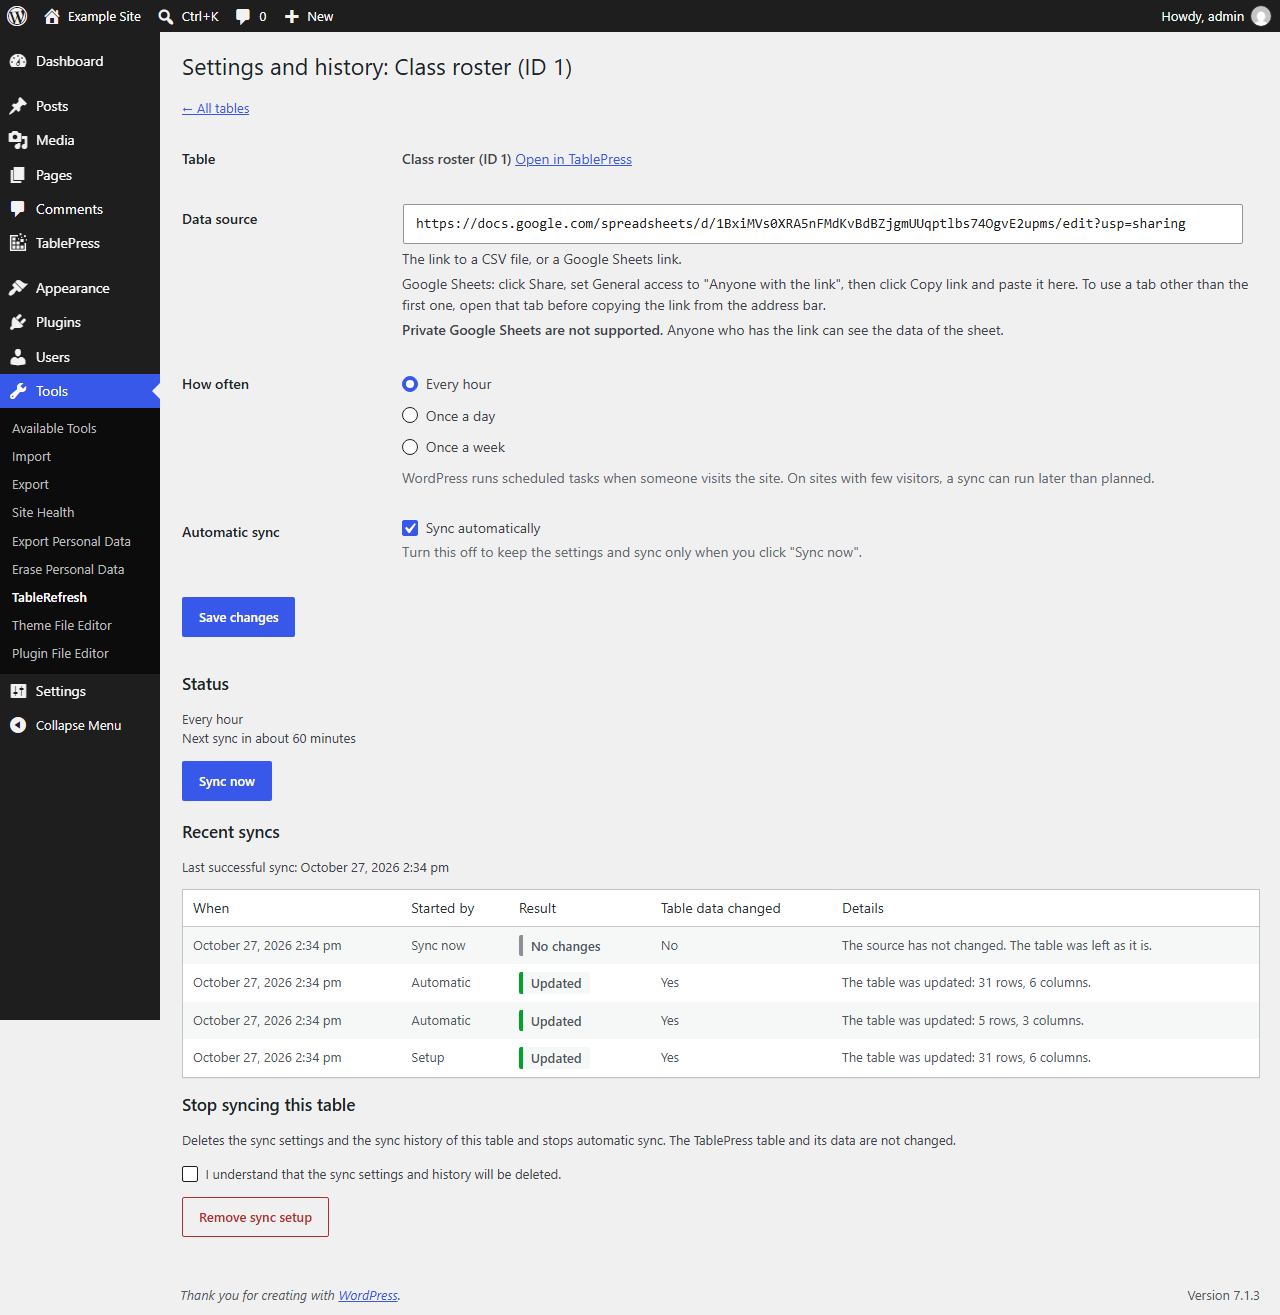
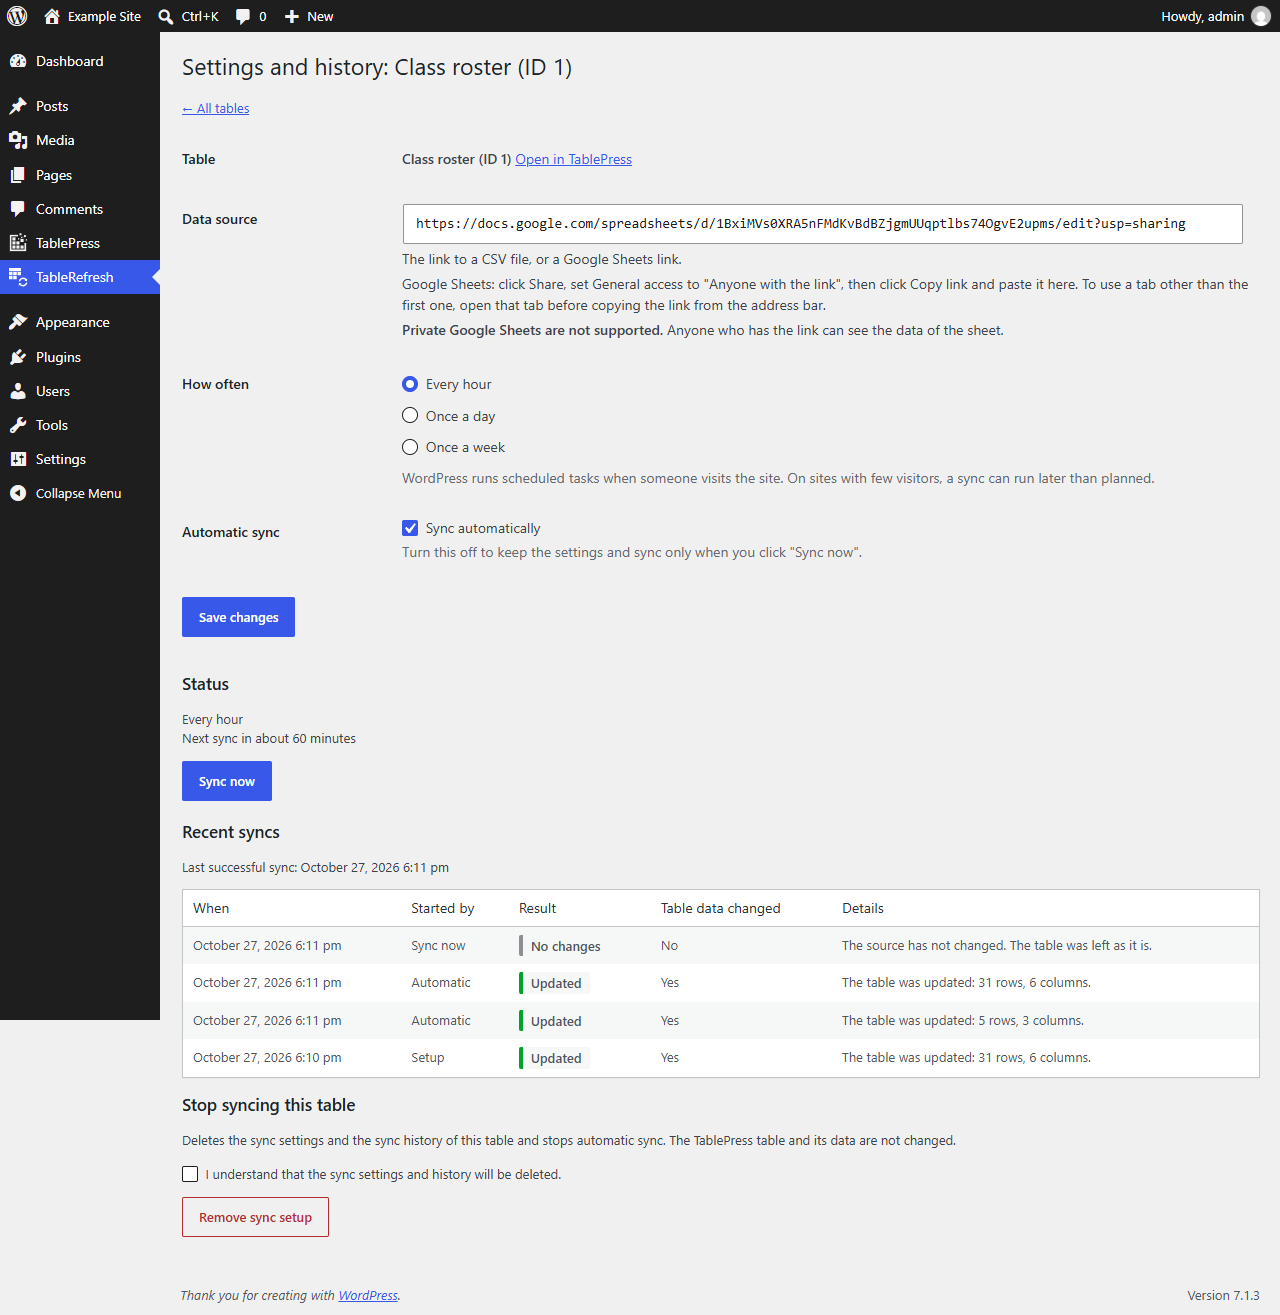
WordPress.org screenshots with the top-level menu; handoff notes
Screenshots 1-5 regenerated with store-shots.js on a fresh site with
the plugin of 9d79fae (sidebar: TableRefresh directly below TablePress).
store-shots.js now sets the neutral "Example Site" title itself.

Changed region(s): [[0.0, 0.1871, 0.125, 0.5612], [0.2188, 0.7171, 0.25, 0.7795]]

diff --git a/dev/release-checks/browser/store-shots.js b/dev/release-checks/browser/store-shots.js
@@ -54,6 +54,9 @@ const sleep = ( ms ) => new Promise( ( r ) => setTimeout( r, ms ) );
 		await submitAndWait( '#wp-submit' );
 	}
 
+	// Neutral site title in the toolbar.
+	wp( "update_option( 'blogname', 'Example Site' );" );
+
 	// A TablePress table to fill. Created through TablePress's model, not its "Add" screen: that screen
 	// opens the new table in the editor, and an open editor rightly holds automatic syncs for 15 minutes.
 	const tableId = wp( "wp_set_current_user( 1 ); $t = TablePress::$model_table->get_table_template(); $t['name'] = 'Class roster'; $t['data'] = array( array( '' ) ); $t['visibility'] = array( 'rows' => array( 1 ), 'columns' => array( 1 ) ); echo TablePress::$model_table->add( $t );" );

diff --git a/HANDOFF.md b/HANDOFF.md
@@ -41,10 +41,22 @@
[1 lines of base64/hex data omitted]
   Only readme.txt line 2 differs from the `06ddaa2` RC2 ZIP. No RC2 tag yet (owner's decision).
 
+## After RC2: top-level menu (9d79fae)
+
+- TableRefresh is a top-level admin menu directly below TablePress (was Tools > TableRefresh), with an
+  original table-and-sync icon. Position follows TablePress (top/middle/bottom); `menu_order` keeps it
+  adjacent on collisions; without a TablePress top-level entry it goes after the content menus. The
+  former `tools.php?page=tablerefresh` redirects to `admin.php?page=tablerefresh`. No sync engine change.
+- Checked on a test ZIP (`sh dev/build-zip.sh 9d79fae menu`): PHP 8.3 full suite OK (242 tests),
+  AdminScreenTest on PHP 7.4 OK, PHPCS clean, 7 menu mutations caught (2 added to mutation-check.sh),
+  browser workflow 38/38 (2 new menu checks), Plugin Check no errors. New WordPress.org screenshots.
+- The plugin changed after RC2, so the next release build is RC3.
+
 ## Remaining
 
-1. Optional: deferred matrices (TablePress 3.1–3.4, MySQL 8.x); screen-reader pass.
-2. WordPress.org submission only with the owner's explicit approval.
+1. Build RC3 from the menu change and re-run focused checks before submission.
+2. Optional: deferred matrices (TablePress 3.1–3.4, MySQL 8.x); screen-reader pass.
+3. WordPress.org submission only with the owner's explicit approval.
 
 ## Tools
 

diff --git a/release/README.md b/release/README.md
@@ -5,7 +5,7 @@
   and `screenshot-1.png` … `screenshot-5.png` (captions in `tablerefresh/readme.txt`, section Screenshots).
   Original artwork; no TablePress or Google logos. Screenshots: clean WordPress 7.1.3 + TablePress 3.4.1,
   Google's public "Class Data" sample sheet (fictional data). Made with
-  `dev/release-checks/browser/store-shots.js` on a fresh site with the plugin of commit 0626e32.
+  `dev/release-checks/browser/store-shots.js` on a fresh site with the plugin of commit 9d79fae.
 - Build the plugin ZIP with `sh dev/build-zip.sh <commit> [suffix]` (output in `dist/`, not committed).
 
 Submission to WordPress.org needs the explicit approval of the project owner, and the `Contributors`
